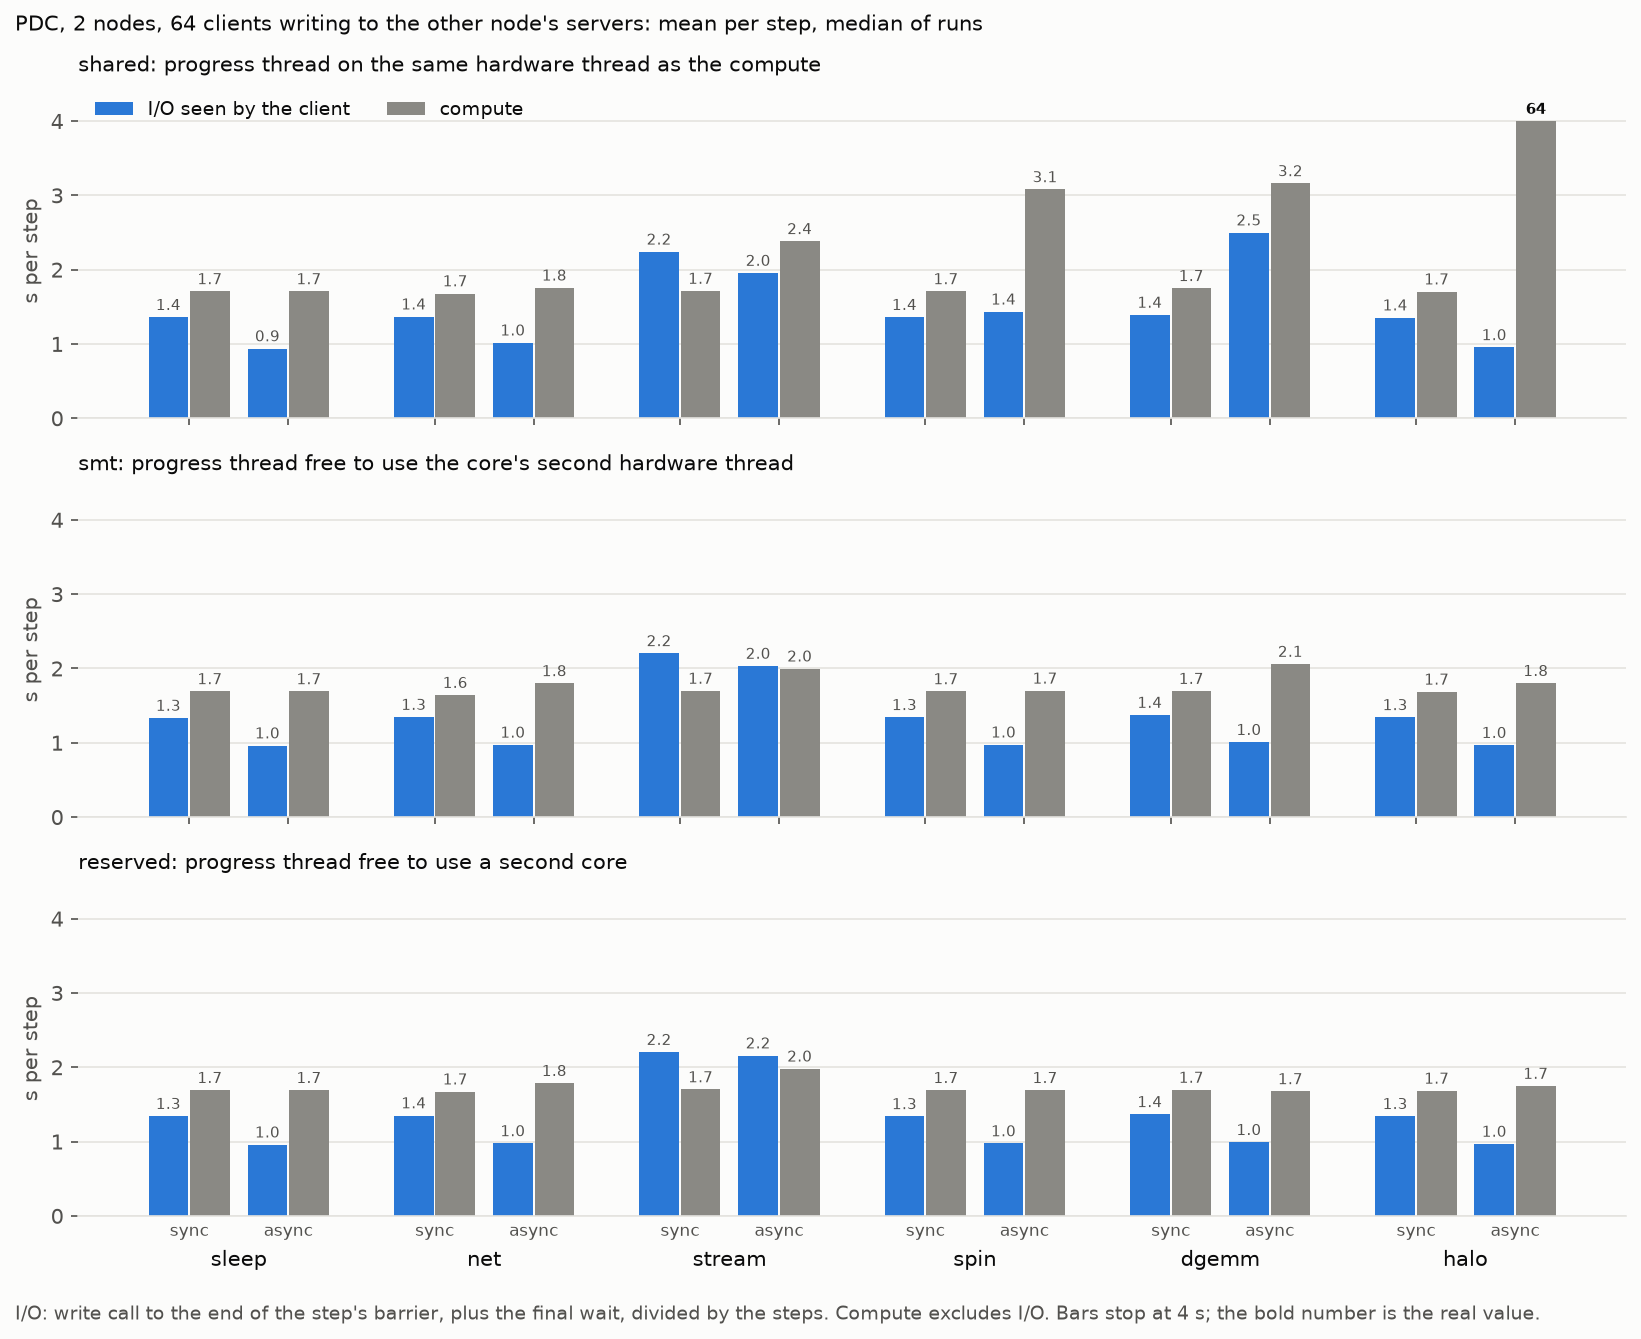
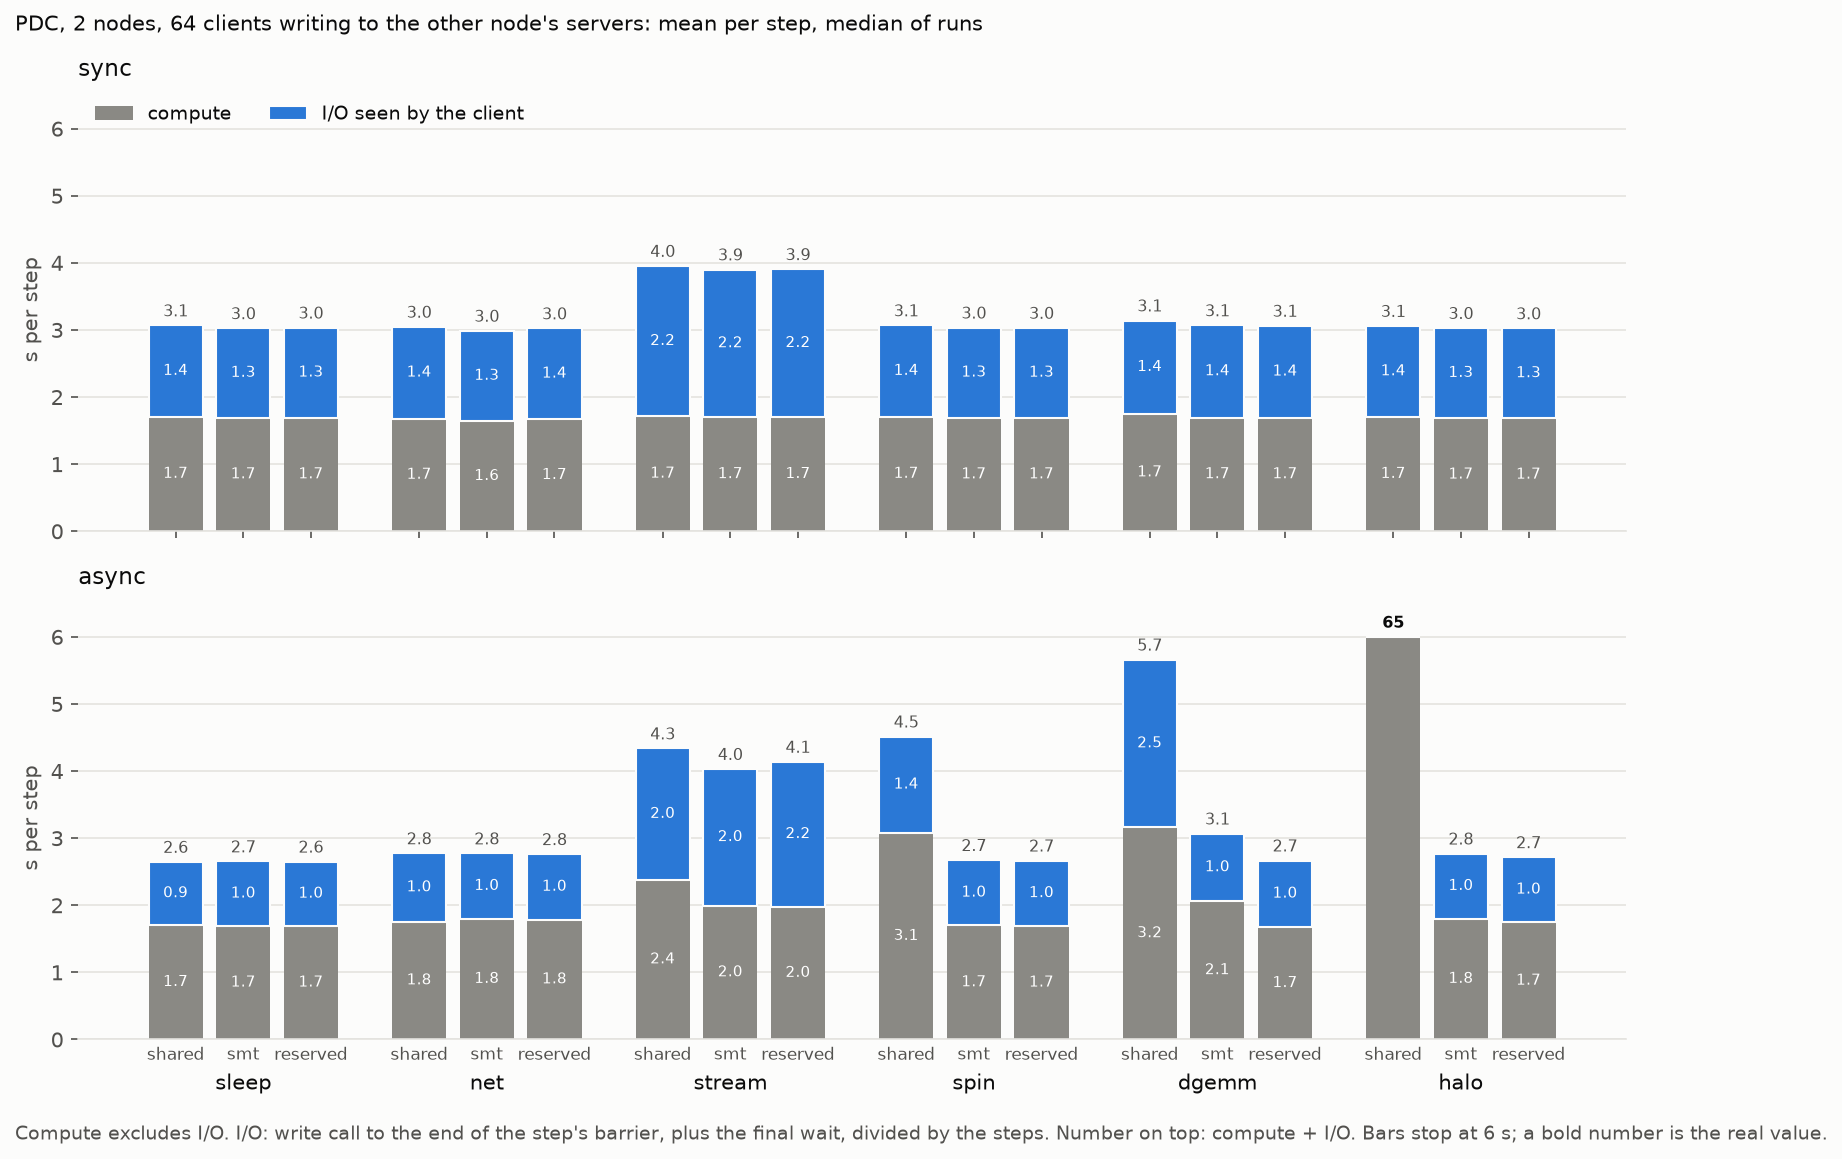
Stack compute and I/O per step, sync and async charts

diff --git a/analysis/perlmutter/plots.py b/analysis/perlmutter/plots.py
@@ -255,43 +255,48 @@ if kerns:
     fig.tight_layout()
     save(fig, "6_knobs_placement.png")
 
-# 7: per-step client time split into compute and observed I/O, 2 nodes, remote servers
+# 7: per-step client time, compute stacked under observed I/O; sync and async, 2 nodes, remote servers
 IOC, CPC = "#2a78d6", "#8a8984"
-modes = ["sync", "async"]
-cap = 4.0
-fig, axs = plt.subplots(len(PCOL), 1, figsize=(11, 2.9 * len(PCOL)), sharex=True, sharey=True)
-for ax, p in zip(axs, PCOL):
+cap = 6.0
+fig, axs = plt.subplots(2, 1, figsize=(11, 7.5), sharex=True, sharey=True)
+for ax, m in zip(axs, ["sync", "async"]):
     xt, xl = [], []
     for i, k in enumerate(KERNELS):
-        for m_i, m in enumerate(modes):
-            key = (2, p, "remote", k, m)
-            x = i * 2.6 + m_i * 1.05
+        for j, p in enumerate(PCOL):
+            x = i * 3.6 + j * 1.0
             xt.append(x)
-            xl.append(m)
+            xl.append(p)
+            key = (2, p, "remote", k, m)
             rs = rows.get(key)
             if not rs:
                 ax.text(x, 0.1, "not run", rotation=90, ha="center", va="bottom", fontsize=7, color=INK2)
                 continue
-            io = median(float(r["t_io_obs"]) / int(r["steps"]) for r in rs)
             comp = med(key, "t_comp")
-            for dx, v, col, lab in ((-0.22, io, IOC, "I/O seen by the client"), (0.22, comp, CPC, "compute")):
-                ax.bar(x + dx, min(v, cap), width=0.42, color=col, label=lab if (i, m_i) == (0, 0) else None)
-                ax.text(x + dx, min(v, cap) + 0.05, f"{v:.1f}" if v < 10 else f"{v:.0f}", ha="center",
-                        va="bottom", fontsize=7, color=INK if v > cap else INK2,
-                        fontweight="bold" if v > cap else "normal")
-    ax.set_ylim(0, cap + 0.5)
+            io = median(float(r["t_io_obs"]) / int(r["steps"]) for r in rs)
+            c, t = min(comp, cap), min(comp + io, cap)
+            ax.bar(x, c, width=0.8, color=CPC, label="compute" if (i, j) == (0, 0) else None)
+            ax.bar(x, t - c, bottom=c, width=0.8, color=IOC, edgecolor=SURFACE, linewidth=1,
+                   label="I/O seen by the client" if (i, j) == (0, 0) else None)
+            over = comp + io > cap
+            ax.text(x, t + 0.08, f"{comp + io:.0f}" if over else f"{comp + io:.1f}", ha="center", va="bottom",
+                    fontsize=7.5, color=INK if over else INK2, fontweight="bold" if over else "normal")
+            if not over and io > 0.45:
+                ax.text(x, c + (t - c) / 2, f"{io:.1f}", ha="center", va="center", fontsize=7, color="white")
+            if comp > 0.45 and comp < cap:
+                ax.text(x, c / 2, f"{comp:.1f}", ha="center", va="center", fontsize=7, color="white")
+    ax.set_ylim(0, cap + 0.6)
     ax.set_ylabel("s per step")
-    ax.set_title(f"{p}: progress thread {PLACE_DESC[p]}", loc="left", fontsize=10)
+    ax.set_title(m, loc="left", fontsize=11)
 axs[-1].set_xticks(xt, xl, fontsize=8)
 axs[-1].tick_params(axis="x", length=0)
 for i, k in enumerate(KERNELS):
-    axs[-1].annotate(k, (i * 2.6 + 0.525, 0), xytext=(0, -24), textcoords="offset points",
+    axs[-1].annotate(k, (i * 3.6 + 1.0, 0), xytext=(0, -24), textcoords="offset points",
                      xycoords=("data", "axes fraction"), ha="center", fontsize=10)
 axs[0].legend(loc="upper left", fontsize=9, ncol=2)
 fig.suptitle("PDC, 2 nodes, 64 clients writing to the other node's servers: mean per step, median of runs",
              x=0.01, ha="left", fontsize=10)
 fig.tight_layout()
-fig.text(0.01, -0.02, f"I/O: write call to the end of the step's barrier, plus the final wait, divided by the steps. "
-         f"Compute excludes I/O. Bars stop at {cap:.0f} s; the bold number is the real value.",
+fig.text(0.01, -0.02, "Compute excludes I/O. I/O: write call to the end of the step's barrier, plus the final wait, "
+         f"divided by the steps. Number on top: compute + I/O. Bars stop at {cap:.0f} s; a bold number is the real value.",
          ha="left", fontsize=9, color=INK2)
 save(fig, "7_step_breakdown.png")
